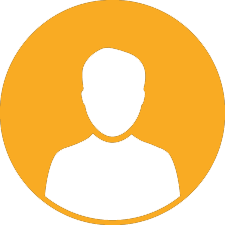
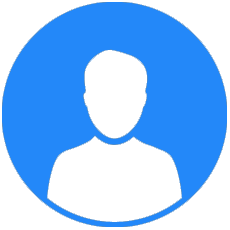
updated zipcode validation and tweaked UX fixes in profile, side-nav and top-nav

diff --git a/app/assets/stylesheets/custom.css.scss b/app/assets/stylesheets/custom.css.scss
@@ -727,7 +727,7 @@ a:active a:visited {
     }
 
     .tile-icon-container {
-        background-color:orange !important; 
+        background-color:#2388f9 !important; 
         height:300px;
     }
 
@@ -790,7 +790,7 @@ a:active a:visited {
 
     #npPrfPic {
       max-width: 65px;  
-      border: 3px solid #b0b0b0;
+      border: 0px solid #b0b0b0;
       margin-top: -20px !important;
     }
 
@@ -953,7 +953,7 @@ a:active a:visited {
       font-size: 40px;
       line-height: 100px;
       background-color:transparent !important;
-      color:orange;
+      color:#2388f9;
       width: 33%;
       height: 100px;
       text-align: center;
@@ -1101,7 +1101,7 @@ a:active a:visited {
   }
 
   .container-fluid {
-      background: transparent !important;
+      background: white !important;
   }
 
   /* start slide menu */
@@ -1148,7 +1148,7 @@ a:active a:visited {
   }
   .wrap .burger .burger_inside {
     position: absolute;
-    background-color: orange;
+    background-color: #000033;
     width: 30px;
     height: 5px;
     left: 2.5px;
@@ -1215,7 +1215,7 @@ a:active a:visited {
     color: #9D9D9D;
     font-size: 14px;
     font-weight: 700;
-    border-bottom: 1px solid #303030;
+    border-bottom: 1px solid #ffffff;
     position: relative;
     -webkit-transition: all 0.4s ease;
     -o-transition: all 0.4s ease;
@@ -1229,7 +1229,7 @@ a:active a:visited {
     top: 16px;
     left: 12px;
     font-size: 18px;
-    color: orange;
+    color: #2388f9;
     -webkit-transition: all 0.4s ease;
     -o-transition: all 0.4s ease;
     transition: all 0.4s ease;
@@ -1240,10 +1240,10 @@ a:active a:visited {
     font-size: 16px;
   }
   .wrap ul.accordion li.open .link {
-    color: #FFB266;
+    color: #2388f9;
   }
   .wrap ul.accordion li.open i {
-    color: #FFB266;
+    color: #2388f9;
   }
   .wrap ul.accordion li.open i.fa-chevron-down {
     -webkit-transform: rotate(180deg);
@@ -1444,7 +1444,7 @@ a:active a:visited {
     }
 
     .tile-icon-container {
-        background-color:orange !important; 
+        background-color:#2388f9 !important; 
         height:300px;
     }
 
@@ -1684,7 +1684,7 @@ PRICING STYLES
     }
 
 .panel-primary>.panel-heading {
-  background: #46A6F7 !important;
+  background: #000033 !important;
 }
 
 .btn db-button-color-square btn-lg {

diff --git a/app/models/user.rb b/app/models/user.rb
@@ -18,9 +18,12 @@ class User < ActiveRecord::Base
          validates :first_name, :last_name, :zip_code, presence: true
 
          # User Avatar Validation
-  validates_integrity_of  :image
-  validates_processing_of :image
+         validates_integrity_of  :image
+         validates_processing_of :image
 
+         #validates_format_of :zip, :with => /^\d{5}(-\d{4})?$/, :message => "should be in the form 12345 or 12345-1234"
+         validates :zip_code, format: { with: /\A\d{5}(-\d{4})?\z/, message: "should be in the form 12345 or 12345-1234" }
+  /\A\(\d{3}\) \d{3}-\d{4}\z/
    def display_name
     	return self.email
     end
